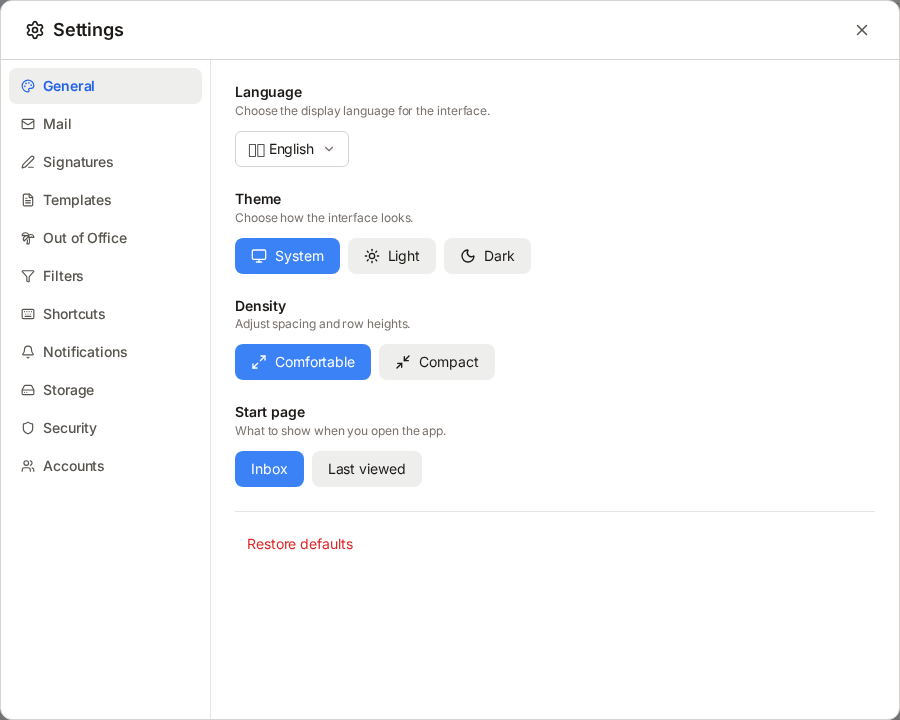
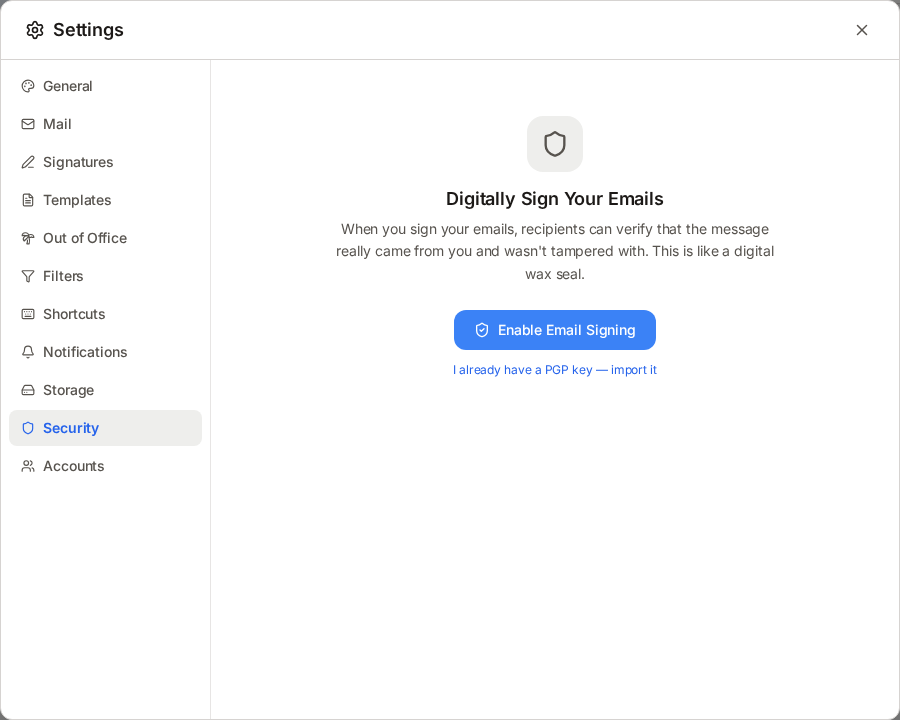
Fix PGP Security and Message Details screenshots
- PGP: now clicks the Security tab via [role="tab"] selector
- Message Details: finds "Real email!" email, clicks the info
  button (now has aria-label), scrolls to Security section showing
  SPF/DKIM/DMARC/ARC pass indicators
- Fixed openSettings to target [role="tab"] to avoid matching
  content text instead of tab triggers

diff --git a/capture-screenshots.ts b/capture-screenshots.ts
@@ -60,7 +60,13 @@ async function openSettings(page: Page, tab?: string) {
   });
   await page.waitForTimeout(1000);
   if (tab) {
-    await page.click(`text=${tab}`).catch(() => {});
+    // Target the tab button specifically (role="tab") to avoid matching content text
+    const tabBtn = page.locator('[role="tab"]').filter({ hasText: tab }).first();
+    if (await tabBtn.isVisible({ timeout: 2000 }).catch(() => false)) {
+      await tabBtn.click();
+    } else {
+      await page.click(`text=${tab}`).catch(() => {});
+    }
     await page.waitForTimeout(500);
   }
 }
